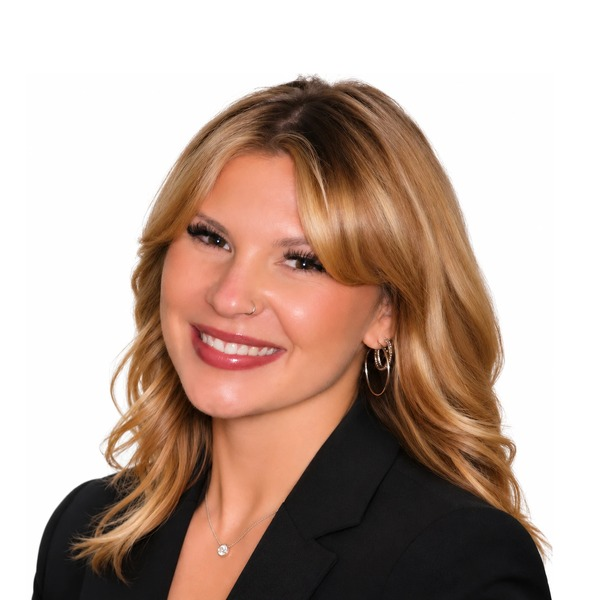
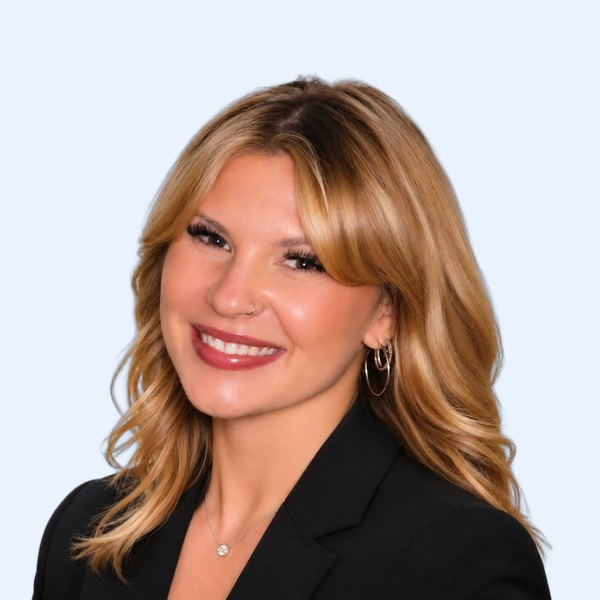
v7 about: headshots on the light blue, Read less link at the foot of each bio
Claude-Session: https://claude.ai/code/session_012Li8LDVWvHRkvw2Mk1N3ga

diff --git a/src/app/v7/about/page.tsx b/src/app/v7/about/page.tsx
@@ -38,7 +38,7 @@ export default function Page() {
     </div>
   </details>
 </div></nav>
-<script dangerouslySetInnerHTML={{__html:"document.addEventListener('click',function(e){var m=e.target.closest('.v7 .nav .menu');if(m){if(e.target.closest('a'))m.removeAttribute('open');}else{document.querySelectorAll('.v7 .nav .menu[open]').forEach(function(x){x.removeAttribute('open')})}})"}} />
+<script dangerouslySetInnerHTML={{__html:"document.addEventListener('click',function(e){var m=e.target.closest('.v7 .nav .menu');if(m){if(e.target.closest('a'))m.removeAttribute('open');}else{document.querySelectorAll('.v7 .nav .menu[open]').forEach(function(x){x.removeAttribute('open')})}});document.addEventListener('click',function(e){var b=e.target.closest('.v7 .team details.bio .less');if(b){var d=b.closest('details');d.removeAttribute('open');d.closest('.card').scrollIntoView({block:'nearest'})}})"}} />
 <main>
 <header className="pagehead about-head" id="top">
   <div className="wrap in">
@@ -64,9 +64,9 @@ export default function Page() {
   <p className="kicker">The team</p>
   <h2>Three people. One system.</h2>
   <div className="team">
-    <article className="card"><img className="headshot photo" src="/v7/brian-greenberg.jpg" alt="Brian Greenberg, CEO of Rocket Llama Labs" /><h3 id="brian-greenberg">Brian Greenberg</h3><p className="role">CEO</p><p>Brian sets the strategy and the marketing playbook for every client. He has spent more than twenty years building businesses that get found online, including a fully digital insurance agency that generated $50M+ through inbound marketing, and he wrote <em>The Salesman Who Doesn&rsquo;t Sell</em>. He has run that same playbook for Phoenix home service companies.</p><details className="bio"><summary>Read more</summary><p>Entrepreneurship is the family trade. Brian learned it from his father, and it was everywhere around him: his grandfather ran his own business, and so did every one of his uncles. Growing up in Highland Park, Illinois, he never seriously considered working for anyone else. The University of Arizona&rsquo;s Eller College of Management gave him the formal version, entrepreneurship and marketing, sharpened by the McGuire Entrepreneurship Program. Then he settled in Scottsdale, Arizona, and got to work.</p><p>In 2003 Brian started two companies at once: True Blue Life Insurance and Wholesale Warehouse Supply, an e-commerce business. At True Blue he pioneered selling life insurance fully online, in all 50 states. No cold calls. No kitchen-table pitches. Content, search, funnels and automation did the selling, and the results followed: more than $1 million in annual premium for ten consecutive years, over $50 million in total revenue, and membership in the Million Dollar Round Table, the top 1% of financial professionals worldwide.</p><p>The inbound system that sold policies also powered Wholesale Warehouse Supply&rsquo;s online stores, and Brian has been delivering it to other businesses ever since. He built SEO Services Internet Marketing LLC, a digital marketing and SEO company, and later BJG Digital, a local services marketing agency that helped Phoenix pool service companies win their local market through local SEO, reviews and inbound funnels. He also leads Quoteplicity, quoting software for insurance agents whose funnels have generated more than 200,000 leads.</p><p>Rocket Llama Labs brings that playbook to local home services companies, run with modern AI tools so a small team delivers what used to take an agency floor. Brian&rsquo;s job as CEO is to keep the company pointed at the only thing that matters to a client: being the business people find first, and the one they call.</p><p>He is the author of <em>The Salesman Who Doesn&rsquo;t Sell: A Marketing Guide to Making Money While You Sleep</em>, with a foreword by Marques Colston, Super Bowl champion wide receiver. <a href="https://www.amazon.com/Salesman-Who-Doesnt-Sell-Marketing-ebook/dp/B078HMS1CQ" target="_blank" rel="noopener">Buy on Amazon</a> or <a href="https://www.audible.com/pd/The-Salesman-Who-Doesnt-Sell-A-Marketing-Guide-for-Making-Money-While-You-Sleep-Audiobook/B0794Q3418" target="_blank" rel="noopener">listen on Audible</a>. Featured in Forbes, Entrepreneur, Fast Company, HuffPost, Bloomberg, USA Today, Yahoo Finance, Fox, NBC and CBS.</p></details></article>
-    <article className="card"><img className="headshot photo" src="/v7/branson-cobb.jpg" alt="Branson Cobb, President and COO of Rocket Llama Labs" /><h3 id="branson-cobb">Branson Cobb</h3><p className="role">President and COO</p><p>Branson runs the business and every client relationship. He spent more than 23 years leading sales, business development and client strategy for some of the country&rsquo;s largest healthcare organizations, and he brings that growth discipline to home service companies that want more qualified leads and measurable results.</p><details className="bio"><summary>Read more</summary><p>Before launching Rocket Llama Labs, Branson served as Market President for CBIZ&rsquo;s Arizona and California offices, where he led market growth, business operations and client retention initiatives. Prior to CBIZ, he spent more than five years with Aetna, leading business development for Arizona&rsquo;s Public and Labor segment and helping organizations develop strategic growth initiatives.</p><p>Branson began his career at Cigna, where he spent 13 years advancing from Medical and Dental Underwriter to Senior Account Executive. His background in underwriting, analytics, account management and sales gave him a unique ability to connect financial insights with business strategy, an approach he continues to bring to every client relationship today.</p><p>At Rocket Llama Labs, Branson believes great marketing is not about chasing trends. It is about building systems that consistently generate leads, drive revenue and help business owners focus on what they do best. His forward-looking approach combines data-driven decision-making with innovative marketing strategies designed specifically for home service businesses.</p><p>Outside of work, Branson enjoys traveling, scuba diving, skiing and fishing with his dad. He earned his Bachelor of Science in Finance from the University of Arizona.</p></details></article>
-    <article className="card"><img className="headshot photo" src="/v7/madison.jpg" alt="Madison Schantz, Chief Marketing Officer at Rocket Llama Labs" /><h3 id="madison-schantz">Madison Schantz</h3><p className="role">Chief Marketing Officer</p><p>Madison designs the brand, the website and the AI-powered tools each client runs on. Her background spans branding, web design, AI content and digital strategy, and she builds every piece so a home service company looks strong online and turns visitors into booked jobs.</p><details className="bio"><summary>Read more</summary><p>Madison is a creative digital designer, branding specialist, AI content creator and digital architecture expert with a passion for transforming innovative ideas into meaningful digital experiences. With experience in website design, brand development, artificial intelligence and digital strategy, she specializes in creating visually compelling, functional and user-friendly solutions that help businesses establish a strong and memorable online presence.</p><p>Her expertise combines creative design with emerging technology, allowing her to develop cohesive brand identities, modern websites and AI-powered digital solutions tailored to each client&rsquo;s unique vision. As a digital architect, Madison focuses on the balance between aesthetics, functionality and strategy, ensuring every project is thoughtfully designed to enhance user experience, strengthen brand recognition and support long-term growth.</p><p>Driven by curiosity and a passion for innovation, Madison enjoys exploring new technologies, creative trends and opportunities to push the boundaries of traditional digital design. She values attention to detail, strategic thinking and bringing fresh perspectives to every project.</p><p>Outside of her professional work, Madison enjoys working out, reading and traveling. She has a strong appreciation for personal growth, wellness and discovering new places and cultures. These interests inspire her creativity, broaden her perspective and encourage her to continuously learn, evolve and approach both life and work with an open mind.</p></details></article>
+    <article className="card"><img className="headshot photo" src="/v7/brian-greenberg.jpg" alt="Brian Greenberg, CEO of Rocket Llama Labs" /><h3 id="brian-greenberg">Brian Greenberg</h3><p className="role">CEO</p><p>Brian sets the strategy and the marketing playbook for every client. He has spent more than twenty years building businesses that get found online, including a fully digital insurance agency that generated $50M+ through inbound marketing, and he wrote <em>The Salesman Who Doesn&rsquo;t Sell</em>. He has run that same playbook for Phoenix home service companies.</p><details className="bio"><summary>Read more</summary><p>Entrepreneurship is the family trade. Brian learned it from his father, and it was everywhere around him: his grandfather ran his own business, and so did every one of his uncles. Growing up in Highland Park, Illinois, he never seriously considered working for anyone else. The University of Arizona&rsquo;s Eller College of Management gave him the formal version, entrepreneurship and marketing, sharpened by the McGuire Entrepreneurship Program. Then he settled in Scottsdale, Arizona, and got to work.</p><p>In 2003 Brian started two companies at once: True Blue Life Insurance and Wholesale Warehouse Supply, an e-commerce business. At True Blue he pioneered selling life insurance fully online, in all 50 states. No cold calls. No kitchen-table pitches. Content, search, funnels and automation did the selling, and the results followed: more than $1 million in annual premium for ten consecutive years, over $50 million in total revenue, and membership in the Million Dollar Round Table, the top 1% of financial professionals worldwide.</p><p>The inbound system that sold policies also powered Wholesale Warehouse Supply&rsquo;s online stores, and Brian has been delivering it to other businesses ever since. He built SEO Services Internet Marketing LLC, a digital marketing and SEO company, and later BJG Digital, a local services marketing agency that helped Phoenix pool service companies win their local market through local SEO, reviews and inbound funnels. He also leads Quoteplicity, quoting software for insurance agents whose funnels have generated more than 200,000 leads.</p><p>Rocket Llama Labs brings that playbook to local home services companies, run with modern AI tools so a small team delivers what used to take an agency floor. Brian&rsquo;s job as CEO is to keep the company pointed at the only thing that matters to a client: being the business people find first, and the one they call.</p><p>He is the author of <em>The Salesman Who Doesn&rsquo;t Sell: A Marketing Guide to Making Money While You Sleep</em>, with a foreword by Marques Colston, Super Bowl champion wide receiver. <a href="https://www.amazon.com/Salesman-Who-Doesnt-Sell-Marketing-ebook/dp/B078HMS1CQ" target="_blank" rel="noopener">Buy on Amazon</a> or <a href="https://www.audible.com/pd/The-Salesman-Who-Doesnt-Sell-A-Marketing-Guide-for-Making-Money-While-You-Sleep-Audiobook/B0794Q3418" target="_blank" rel="noopener">listen on Audible</a>. Featured in Forbes, Entrepreneur, Fast Company, HuffPost, Bloomberg, USA Today, Yahoo Finance, Fox, NBC and CBS.</p><button type="button" className="less">Read less</button></details></article>
+    <article className="card"><img className="headshot photo" src="/v7/branson-cobb.jpg" alt="Branson Cobb, President and COO of Rocket Llama Labs" /><h3 id="branson-cobb">Branson Cobb</h3><p className="role">President and COO</p><p>Branson runs the business and every client relationship. He spent more than 23 years leading sales, business development and client strategy for some of the country&rsquo;s largest healthcare organizations, and he brings that growth discipline to home service companies that want more qualified leads and measurable results.</p><details className="bio"><summary>Read more</summary><p>Before launching Rocket Llama Labs, Branson served as Market President for CBIZ&rsquo;s Arizona and California offices, where he led market growth, business operations and client retention initiatives. Prior to CBIZ, he spent more than five years with Aetna, leading business development for Arizona&rsquo;s Public and Labor segment and helping organizations develop strategic growth initiatives.</p><p>Branson began his career at Cigna, where he spent 13 years advancing from Medical and Dental Underwriter to Senior Account Executive. His background in underwriting, analytics, account management and sales gave him a unique ability to connect financial insights with business strategy, an approach he continues to bring to every client relationship today.</p><p>At Rocket Llama Labs, Branson believes great marketing is not about chasing trends. It is about building systems that consistently generate leads, drive revenue and help business owners focus on what they do best. His forward-looking approach combines data-driven decision-making with innovative marketing strategies designed specifically for home service businesses.</p><p>Outside of work, Branson enjoys traveling, scuba diving, skiing and fishing with his dad. He earned his Bachelor of Science in Finance from the University of Arizona.</p><button type="button" className="less">Read less</button></details></article>
+    <article className="card"><img className="headshot photo" src="/v7/madison.jpg" alt="Madison Schantz, Chief Marketing Officer at Rocket Llama Labs" /><h3 id="madison-schantz">Madison Schantz</h3><p className="role">Chief Marketing Officer</p><p>Madison designs the brand, the website and the AI-powered tools each client runs on. Her background spans branding, web design, AI content and digital strategy, and she builds every piece so a home service company looks strong online and turns visitors into booked jobs.</p><details className="bio"><summary>Read more</summary><p>Madison is a creative digital designer, branding specialist, AI content creator and digital architecture expert with a passion for transforming innovative ideas into meaningful digital experiences. With experience in website design, brand development, artificial intelligence and digital strategy, she specializes in creating visually compelling, functional and user-friendly solutions that help businesses establish a strong and memorable online presence.</p><p>Her expertise combines creative design with emerging technology, allowing her to develop cohesive brand identities, modern websites and AI-powered digital solutions tailored to each client&rsquo;s unique vision. As a digital architect, Madison focuses on the balance between aesthetics, functionality and strategy, ensuring every project is thoughtfully designed to enhance user experience, strengthen brand recognition and support long-term growth.</p><p>Driven by curiosity and a passion for innovation, Madison enjoys exploring new technologies, creative trends and opportunities to push the boundaries of traditional digital design. She values attention to detail, strategic thinking and bringing fresh perspectives to every project.</p><p>Outside of her professional work, Madison enjoys working out, reading and traveling. She has a strong appreciation for personal growth, wellness and discovering new places and cultures. These interests inspire her creativity, broaden her perspective and encourage her to continuously learn, evolve and approach both life and work with an open mind.</p><button type="button" className="less">Read less</button></details></article>
   </div>
 </div></section>
 

diff --git a/src/components/v7/v7.css b/src/components/v7/v7.css
@@ -575,3 +575,5 @@
 .v7 #faq.feature{background:#fff;border-block:0}
 /* Ring: slightly smaller than the block and placed so it clears the title with a gap. */
 .v7 .pagehead .dream-badge{height:90%;top:5%;bottom:auto;right:clamp(16px,4vw,56px)}
+/* Team bios: a "Read less" link at the foot of an opened bio. */
+.v7 .team .card details.bio .less{display:inline-block;margin-top:12px;padding:0;border:0;background:none;font-family:var(--sans);font-weight:700;font-size:.92rem;color:var(--accent);cursor:pointer}

diff --git a/scripts/make-v3.py b/scripts/make-v3.py
@@ -337,7 +337,9 @@ export default function Page() {
 '''
 
 
+LESS_SCRIPT = "document.addEventListener('click',function(e){var b=e.target.closest('.v7 .team details.bio .less');if(b){var d=b.closest('details');d.removeAttribute('open');d.closest('.card').scrollIntoView({block:'nearest'})}})"
 MENU_SCRIPT = "document.addEventListener('click',function(e){var m=e.target.closest('.v7 .nav .menu');if(m){if(e.target.closest('a'))m.removeAttribute('open');}else{document.querySelectorAll('.v7 .nav .menu[open]').forEach(function(x){x.removeAttribute('open')})}})"
+MENU_SCRIPT = MENU_SCRIPT + ';' + LESS_SCRIPT
 
 
 def v7_extras(s, f, is_home, base):
@@ -568,7 +570,7 @@ def write_v7_about():
         '<p>The inbound system that sold policies also powered Wholesale Warehouse Supply&rsquo;s online stores, and Brian has been delivering it to other businesses ever since. He built SEO Services Internet Marketing LLC, a digital marketing and SEO company, and later BJG Digital, a local services marketing agency that helped Phoenix pool service companies win their local market through local SEO, reviews and inbound funnels. He also leads Quoteplicity, quoting software for insurance agents whose funnels have generated more than 200,000 leads.</p>'
         '<p>Rocket Llama Labs brings that playbook to local home services companies, run with modern AI tools so a small team delivers what used to take an agency floor. Brian&rsquo;s job as CEO is to keep the company pointed at the only thing that matters to a client: being the business people find first, and the one they call.</p>'
         '<p>He is the author of <em>The Salesman Who Doesn&rsquo;t Sell: A Marketing Guide to Making Money While You Sleep</em>, with a foreword by Marques Colston, Super Bowl champion wide receiver. <a href="https://www.amazon.com/Salesman-Who-Doesnt-Sell-Marketing-ebook/dp/B078HMS1CQ" target="_blank" rel="noopener">Buy on Amazon</a> or <a href="https://www.audible.com/pd/The-Salesman-Who-Doesnt-Sell-A-Marketing-Guide-for-Making-Money-While-You-Sleep-Audiobook/B0794Q3418" target="_blank" rel="noopener">listen on Audible</a>. Featured in Forbes, Entrepreneur, Fast Company, HuffPost, Bloomberg, USA Today, Yahoo Finance, Fox, NBC and CBS.</p>'
-        '</details></article>\n'
+        '<button type="button" className="less">Read less</button></details></article>\n'
         '    <article className="card"><img className="headshot photo" src="/v7/branson-cobb.jpg" alt="Branson Cobb, President and COO of Rocket Llama Labs" /><h3 id="branson-cobb">Branson Cobb</h3><p className="role">President and COO</p>'
         '<p>Branson runs the business and every client relationship. He spent more than 23 years leading sales, business development and client strategy for some of the country&rsquo;s largest healthcare organizations, and he brings that growth discipline to home service companies that want more qualified leads and measurable results.</p>'
         '<details className="bio"><summary>Read more</summary>'
@@ -576,7 +578,7 @@ def write_v7_about():
         '<p>Branson began his career at Cigna, where he spent 13 years advancing from Medical and Dental Underwriter to Senior Account Executive. His background in underwriting, analytics, account management and sales gave him a unique ability to connect financial insights with business strategy, an approach he continues to bring to every client relationship today.</p>'
         '<p>At Rocket Llama Labs, Branson believes great marketing is not about chasing trends. It is about building systems that consistently generate leads, drive revenue and help business owners focus on what they do best. His forward-looking approach combines data-driven decision-making with innovative marketing strategies designed specifically for home service businesses.</p>'
         '<p>Outside of work, Branson enjoys traveling, scuba diving, skiing and fishing with his dad. He earned his Bachelor of Science in Finance from the University of Arizona.</p>'
-        '</details></article>\n'
+        '<button type="button" className="less">Read less</button></details></article>\n'
         '    <article className="card"><img className="headshot photo" src="/v7/madison.jpg" alt="Madison Schantz, Chief Marketing Officer at Rocket Llama Labs" /><h3 id="madison-schantz">Madison Schantz</h3><p className="role">Chief Marketing Officer</p>'
         '<p>Madison designs the brand, the website and the AI-powered tools each client runs on. Her background spans branding, web design, AI content and digital strategy, and she builds every piece so a home service company looks strong online and turns visitors into booked jobs.</p>'
         '<details className="bio"><summary>Read more</summary>'
@@ -584,7 +586,7 @@ def write_v7_about():
         '<p>Her expertise combines creative design with emerging technology, allowing her to develop cohesive brand identities, modern websites and AI-powered digital solutions tailored to each client&rsquo;s unique vision. As a digital architect, Madison focuses on the balance between aesthetics, functionality and strategy, ensuring every project is thoughtfully designed to enhance user experience, strengthen brand recognition and support long-term growth.</p>'
         '<p>Driven by curiosity and a passion for innovation, Madison enjoys exploring new technologies, creative trends and opportunities to push the boundaries of traditional digital design. She values attention to detail, strategic thinking and bringing fresh perspectives to every project.</p>'
         '<p>Outside of her professional work, Madison enjoys working out, reading and traveling. She has a strong appreciation for personal growth, wellness and discovering new places and cultures. These interests inspire her creativity, broaden her perspective and encourage her to continuously learn, evolve and approach both life and work with an open mind.</p>'
-        '</details></article>\n'
+        '<button type="button" className="less">Read less</button></details></article>\n'
         '  </div>\n'
         '</div></section>\n\n'
         '<section id="faq" className="feature"><div className="wrap">\n'
